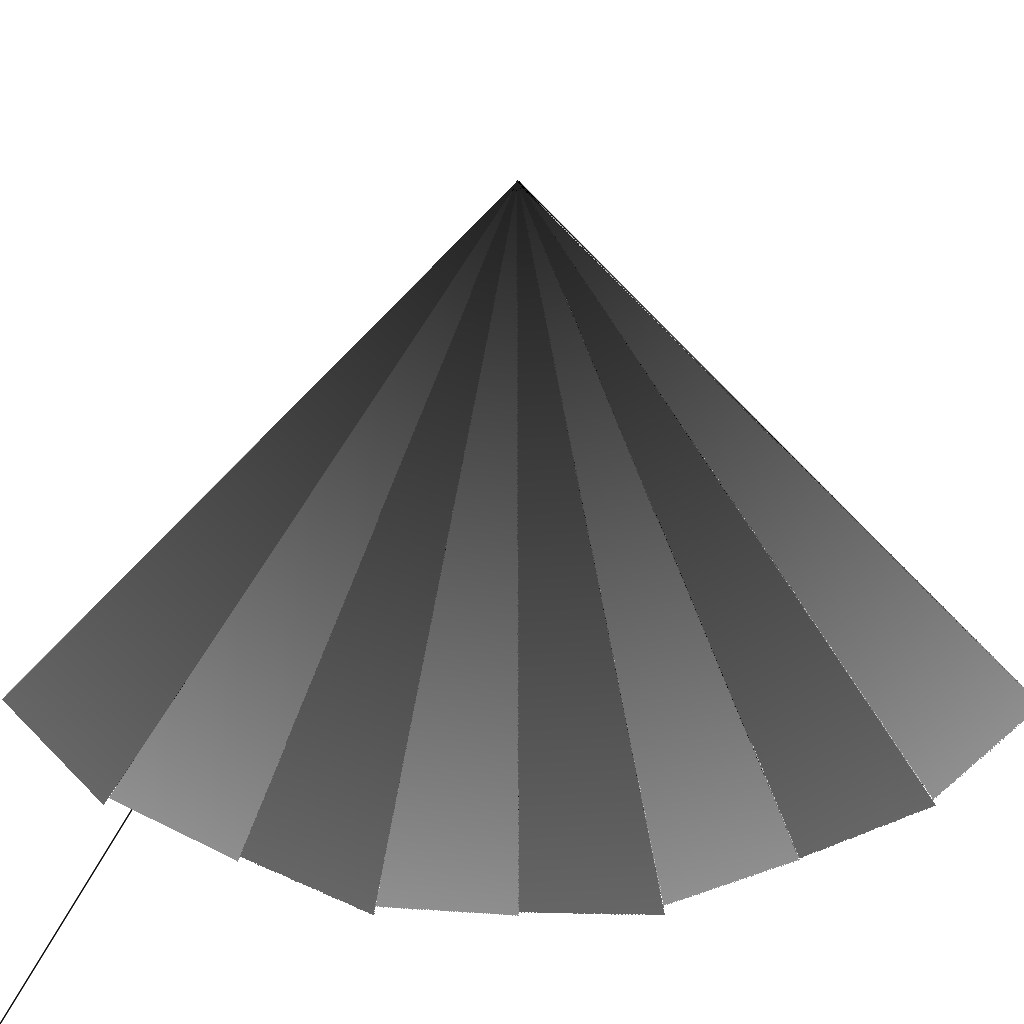
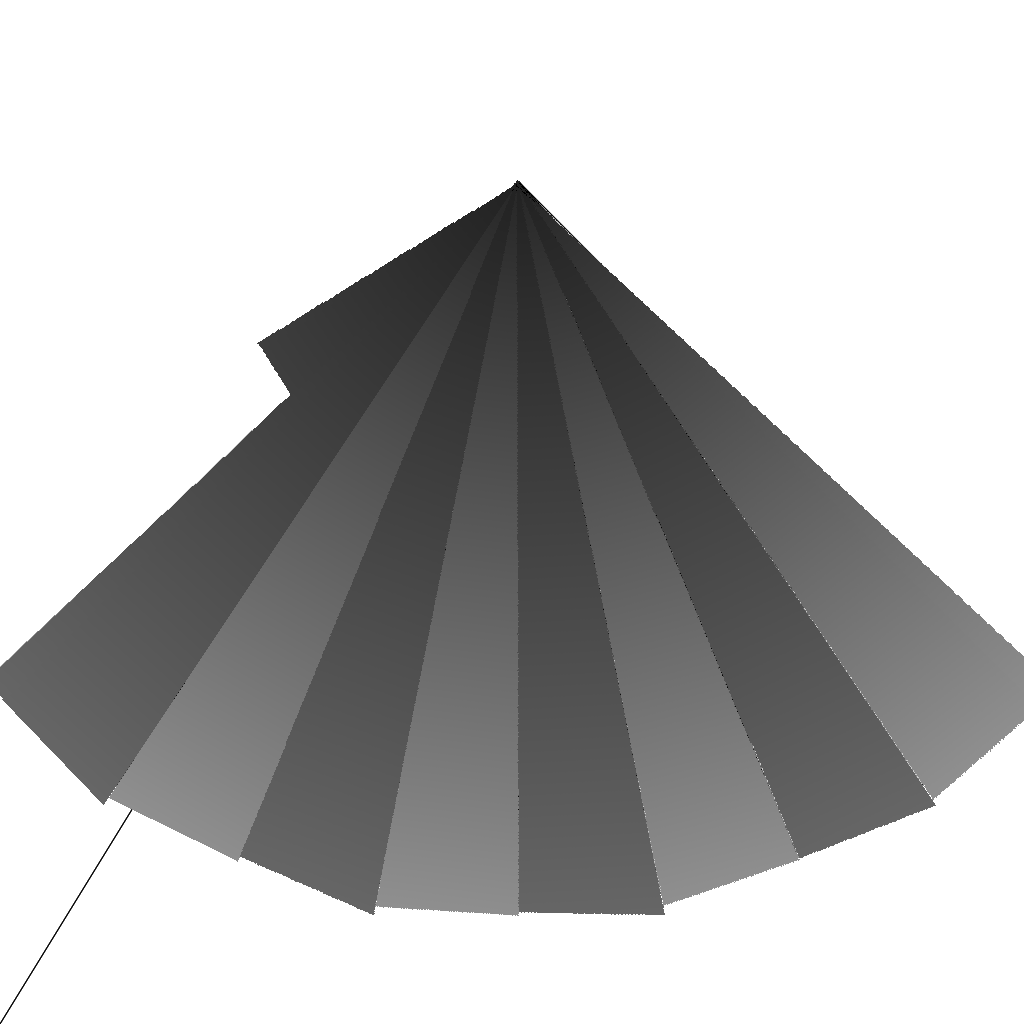
リスポーンと滑落の実装と、重力加速度の調整

Changed region(s): [[0.0, 0.1875, 0.5, 0.6875], [0.6875, 0.3438, 1.0, 0.6875], [0.6562, 0.3125, 0.6875, 0.3438]]

diff --git a/DirectXGame/Stage.cpp b/DirectXGame/Stage.cpp
@@ -1,6 +1,8 @@
 #include "Stage.h"
 #include "ImGuiManager.h"
 #include <math.h>
+#include <stdlib.h>
+#include <time.h>
 
 void Stage::Initialize(int num, Vector3 Pos) {
 	num_ = num;
@@ -9,19 +11,19 @@ void Stage::Initialize(int num, Vector3 Pos) {
 		worldTransform_[i].Initialize();
 		worldTransform_[i].translation_ = Pos;
 		worldTransform_[i].rotation_.y += 1.57f * i;
-		worldTransform_[i].scale_ = {5.0f, 5.0f, 5.0f};
+		worldTransform_[i].scale_ = {1.0f, 1.0f, 1.0f};
 		worldTransform_[i].UpdateMatrix();
 	}
 }
 
 void Stage::Update() {
-	//ImGui::Begin("stageDraw");
+	// ImGui::Begin("stageDraw");
 	for (int i = 0; i < 4; i++) {
-		//ImGui::Text("model%d", i);
-		//ImGui::DragFloat("rot", &worldTransform_[i].rotation_.y, .01f);
+		// ImGui::Text("model%d", i);
+		// ImGui::DragFloat("rot", &worldTransform_[i].rotation_.y, .01f);
 		worldTransform_[i].UpdateMatrix();
 	}
-	//ImGui::End();
+	// ImGui::End();
 }
 
 float Stage::GetGrandPosY(Vector3 objPos) {
@@ -38,11 +40,11 @@ void Stage::Draw(ViewProjection& viewProjection) {
 	}
 }
 
-ObjMode Stage::GetMode(Vector3 objPos) {	
+ObjMode Stage::GetMode(Vector3 objPos) {
 	ImGui::Begin("stage");
 	ImGui::DragFloat3("correction", &correction.x, .01f);
 	ImGui::Text("PlayerPosB %f %f %f", objPos.x, objPos.y, objPos.z);
-	objPos -=correction;
+	objPos -= correction;
 	float scl = (float)sqrtf(powf(objPos.x, 2.0f) + powf(objPos.z, 2.0f));
 	ImGui::DragFloat("rad", &rad_, .01f);
 	ImGui::Text("PlayerPos %f %f %f", objPos.x, objPos.y, objPos.z);
@@ -73,3 +75,40 @@ ObjMode Stage::GetMode(Vector3 objPos) {
 }
 
 Stage::~Stage() {}
+
+Vector3 Stage::Respown() {
+	Vector3 objPos;
+	while (1) {
+		srand((int)clock());
+		objPos = {
+		    (float)((rand() % 10000 - 5000) / 10), (float)((rand() % 10000 - 5000) / 10),
+		    (float)((rand() % 10000 - 5000) / 10)};
+		float scl = (float)sqrtf(powf(objPos.x, 2.0f) + powf(objPos.z, 2.0f));
+		if (scl < rad_) {
+			if (num_ == 1) {
+				if ((objPos.x / scl >= -sqrtf(2.f) / 2 && objPos.z / scl <= -sqrtf(2.f) / 2) &&
+				    (objPos.x / scl <= sqrtf(2.f) / 2 && objPos.z / scl <= -sqrtf(2.f) / 2))
+					break;
+			}
+			if (num_ == 2) {
+				if ((objPos.x / scl >= -sqrtf(2.f) / 2 && objPos.z / scl >= sqrtf(2.f) / 2) ||
+				    (objPos.x / scl >= sqrtf(2.f) / 2 && objPos.z / scl >= -sqrtf(2.f) / 2))
+					break;
+			}
+			if (num_ == 3) {
+				if ((objPos.x / scl >= sqrtf(2.f) / 2 && objPos.z / scl <= sqrtf(2.f) / 2) ||
+				    (objPos.x / scl >= sqrtf(2.f) / 2 && objPos.z / scl >= -sqrtf(2.f) / 2))
+					break;
+			}
+		}
+	}
+	objPos += correction;
+	return objPos;
+}
+
+Vector3 Stage::Sliding(Vector3 objPos) {
+	objPos -= correction;
+	float scl = (float)sqrtf(powf(objPos.x, 2.0f) + powf(objPos.z, 2.0f));
+	scl *= -4;
+	return {objPos.x / scl, objPos.y / scl, objPos.z / scl};
+}

diff --git a/DirectXGame/Player.cpp b/DirectXGame/Player.cpp
@@ -59,8 +59,8 @@ void Player::Update() {
 	if (stage_->GetMode(worldTransform_.translation_) == underGrand) {
 		acceleration_.y += stage_->grav_;
 		worldTransform_.translation_.y -= acceleration_.y;
-	}*/
-	Move();
+	}
+	//Move();
 	worldTransform_.rotation_ += rotationSpeed_;
 	worldTransform_.translation_ += velocity_;
 	worldTransform_.translation_ += spotVelocity_;
@@ -76,7 +76,8 @@ void Player::Update() {
 			countSpotFlyingTimer_ = 0;
 		}
 	}
-	
+	if (worldTransform_.translation_.y <= -30)
+		worldTransform_.translation_ = stage_->Respown();
 	
 	//Gauge
 	gauge_->GetCameraRotation(viewProjection_->rotation_.y);
@@ -212,6 +213,7 @@ void Player::Move() {
 		ImGui::Text("No controller detected");
 	}
 	
+	worldTransform_.translation_ += stage_->Sliding(worldTransform_.translation_);
 	
 }
 

diff --git a/DirectXGame/Stage.h b/DirectXGame/Stage.h
@@ -20,13 +20,14 @@ public:
 	void Draw(ViewProjection& viewProjection);
 	ObjMode GetMode(Vector3 objPos);
 	~Stage();
-
-	float grav_ = 1.f;
+	Vector3 Respown();
+	float grav_ = 0.125f;
+	Vector3 Sliding(Vector3 objPos);
 
 private:
 	int num_; // 扇の個数
 	WorldTransform worldTransform_[4];
 	Model* model_ = nullptr;
-	float rad_ = 740.f;
+	float rad_ = 444.f;
 	Vector3 correction = {.0f, .0f, 300.0f};
 };

diff --git a/DirectXGame/scene/GameScene.cpp b/DirectXGame/scene/GameScene.cpp
@@ -221,7 +221,7 @@ void GameScene::Draw() {
 	spot1_->Draw(viewProjection_);
 	spot2_->Draw(viewProjection_);
 	spot3_->Draw(viewProjection_);
-	//stage_->Draw(viewProjection_);
+	stage_->Draw(viewProjection_);
 	skydome_->Draw(viewProjection_);
 
 	for (Enemy* enemy : enemies_) {
